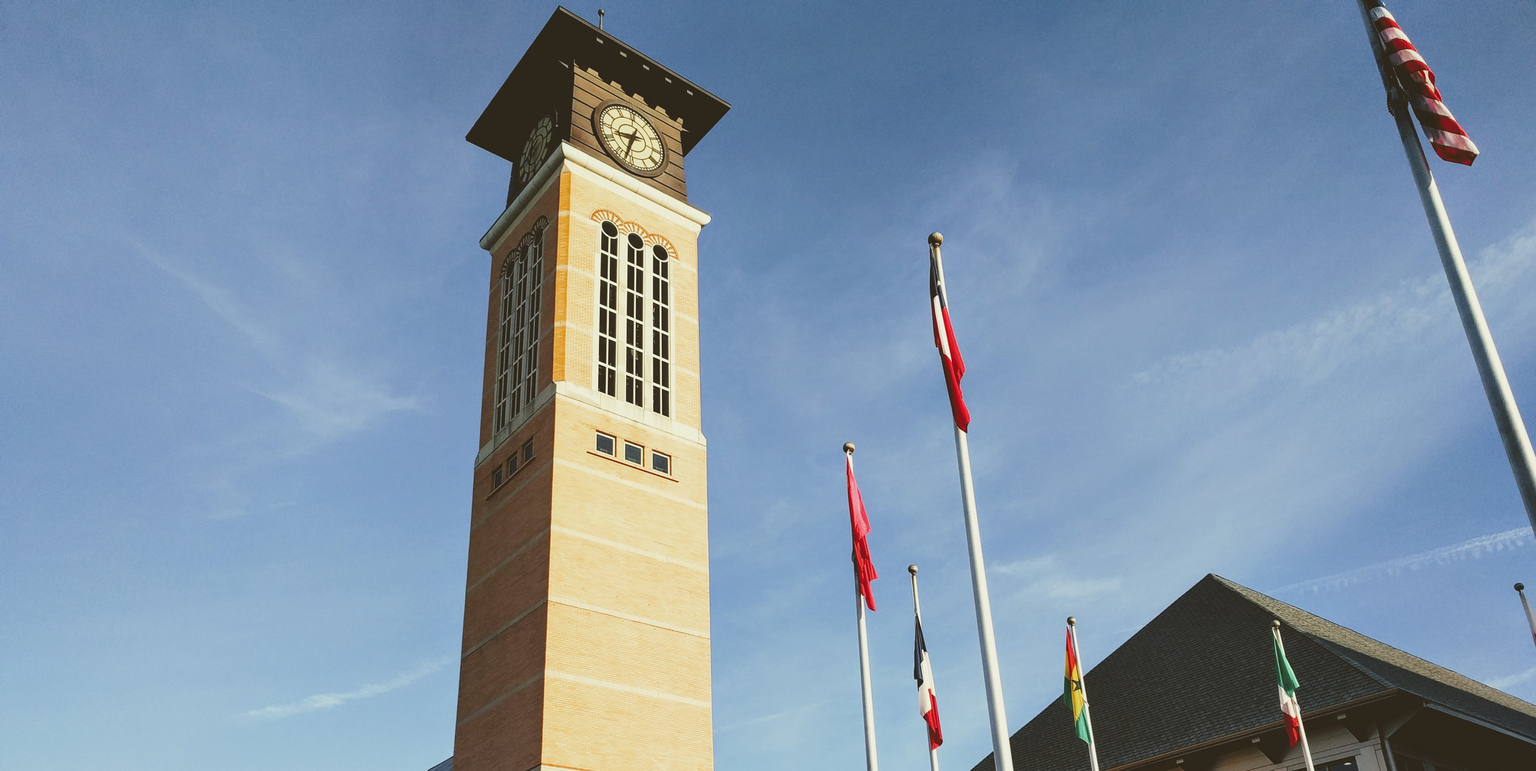
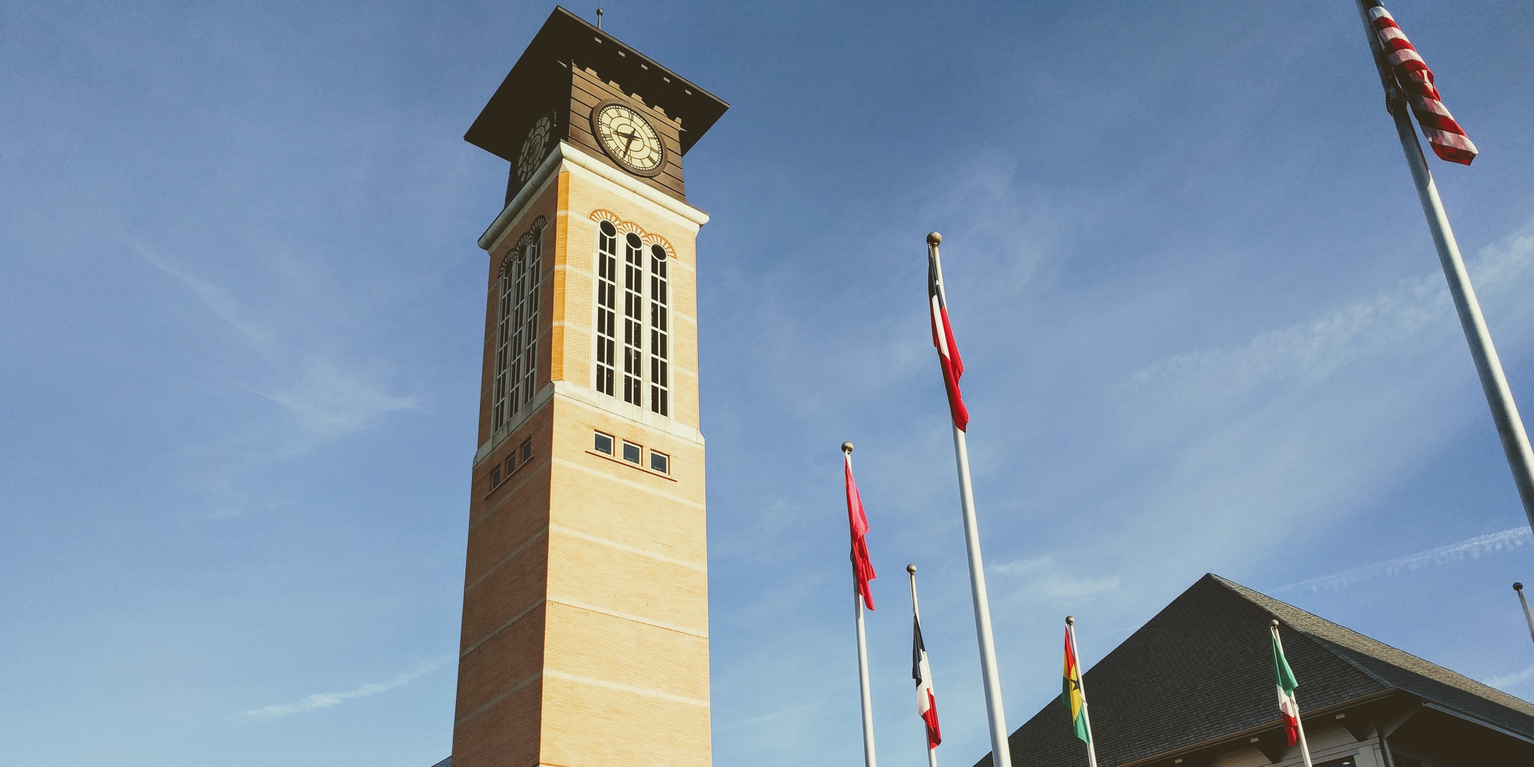
Update image sizes so they are consistent.

diff --git a/app/index.html b/app/index.html
@@ -117,7 +117,7 @@
       <div class="gdg-Content-cardWrapper">
         <md-card class="gdg-Content-card">
           <!-- <img class="md-card-image gdg-Content-disableImage" ng-src="images/banner/harris.jpg" alt="Background"> -->
-          <img class="md-card-image" ng-src="images/banner/gvsu5.a23d4a19.jpg" alt="Background">
+          <img class="md-card-image" ng-src="images/banner/gvsu5.c5bd5565.jpg" alt="Background">
           <md-card-title>
             <md-card-title-text>
               <span class="md-headline">Schedule (Coming soon!)</span>
@@ -147,7 +147,7 @@
       <div class="gdg-Content-cardWrapper">
         <md-card class="gdg-Content-card">
           <!-- <img class="md-card-image" ng-src="images/banner/harris.jpg" alt="Background"> -->
-          <img class="md-card-image" ng-src="images/banner/gvsu4.f62a1355.jpg" alt="Background">
+          <img class="md-card-image" ng-src="images/banner/gvsu4.40492049.jpg" alt="Background">
           <md-card-title>
             <md-card-title-text>
               <span class="md-headline">Sponsors</span>
